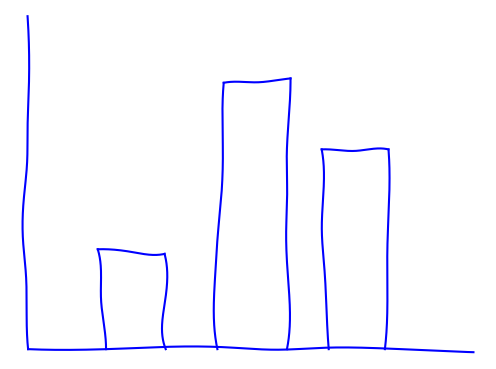
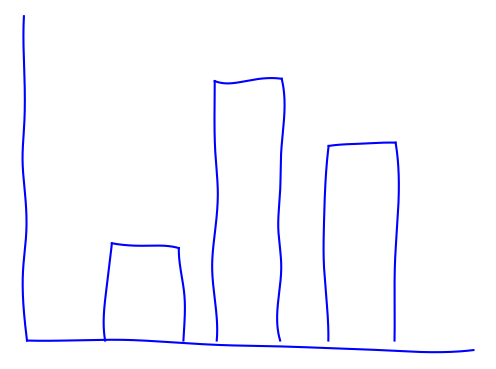
Changed organization

Changed region(s): [[0.0302, 0.0298, 0.9073, 0.9837], [0.6351, 0.7154, 0.6653, 0.7751], [0.9375, 0.9241, 0.9677, 0.9539]]

diff --git a/badgraph/__main__.py b/badgraph/__main__.py
@@ -1,14 +1,14 @@
 import matplotlib.pyplot as plt
 
-from badgraph.badart.line import Line
+from badgraph.drawer import Drawer
 
 if __name__ == '__main__':
-    line = Line(100, 100)
+    drawer = Drawer(100, 100)
 
-    line.drawAxes()
-    line.drawBar(25, 0, 15, 30)
-    line.drawBar(50, 0, 15, 80)
-    line.drawBar(75, 0, 15, 60)
+    drawer.drawAxes()
+    drawer.drawBar(25, 0, 15, 30)
+    drawer.drawBar(50, 0, 15, 80)
+    drawer.drawBar(75, 0, 15, 60)
 
     plt.axis('off')
     plt.savefig('test.png', bbox_inches='tight', pad_inches=0)

diff --git a/badgraph/drawer.py b/badgraph/drawer.py
@@ -5,7 +5,7 @@ from scipy.interpolate import make_interp_spline, BSpline
 SEGMENTS = 10
 ERROR_INV = 120
 
-class Line:
+class Drawer:
     # x and y are lengths of axes
     def __init__(self, x, y):
         self.x = x

diff --git a/README.md b/README.md
@@ -7,4 +7,4 @@ Todo:
 
 Bar y pos should match with x-axis y coord closest to the bar's endpoints.
 
-Better name for line class.
+To make both endpoints precise, make the error not accumulate.
